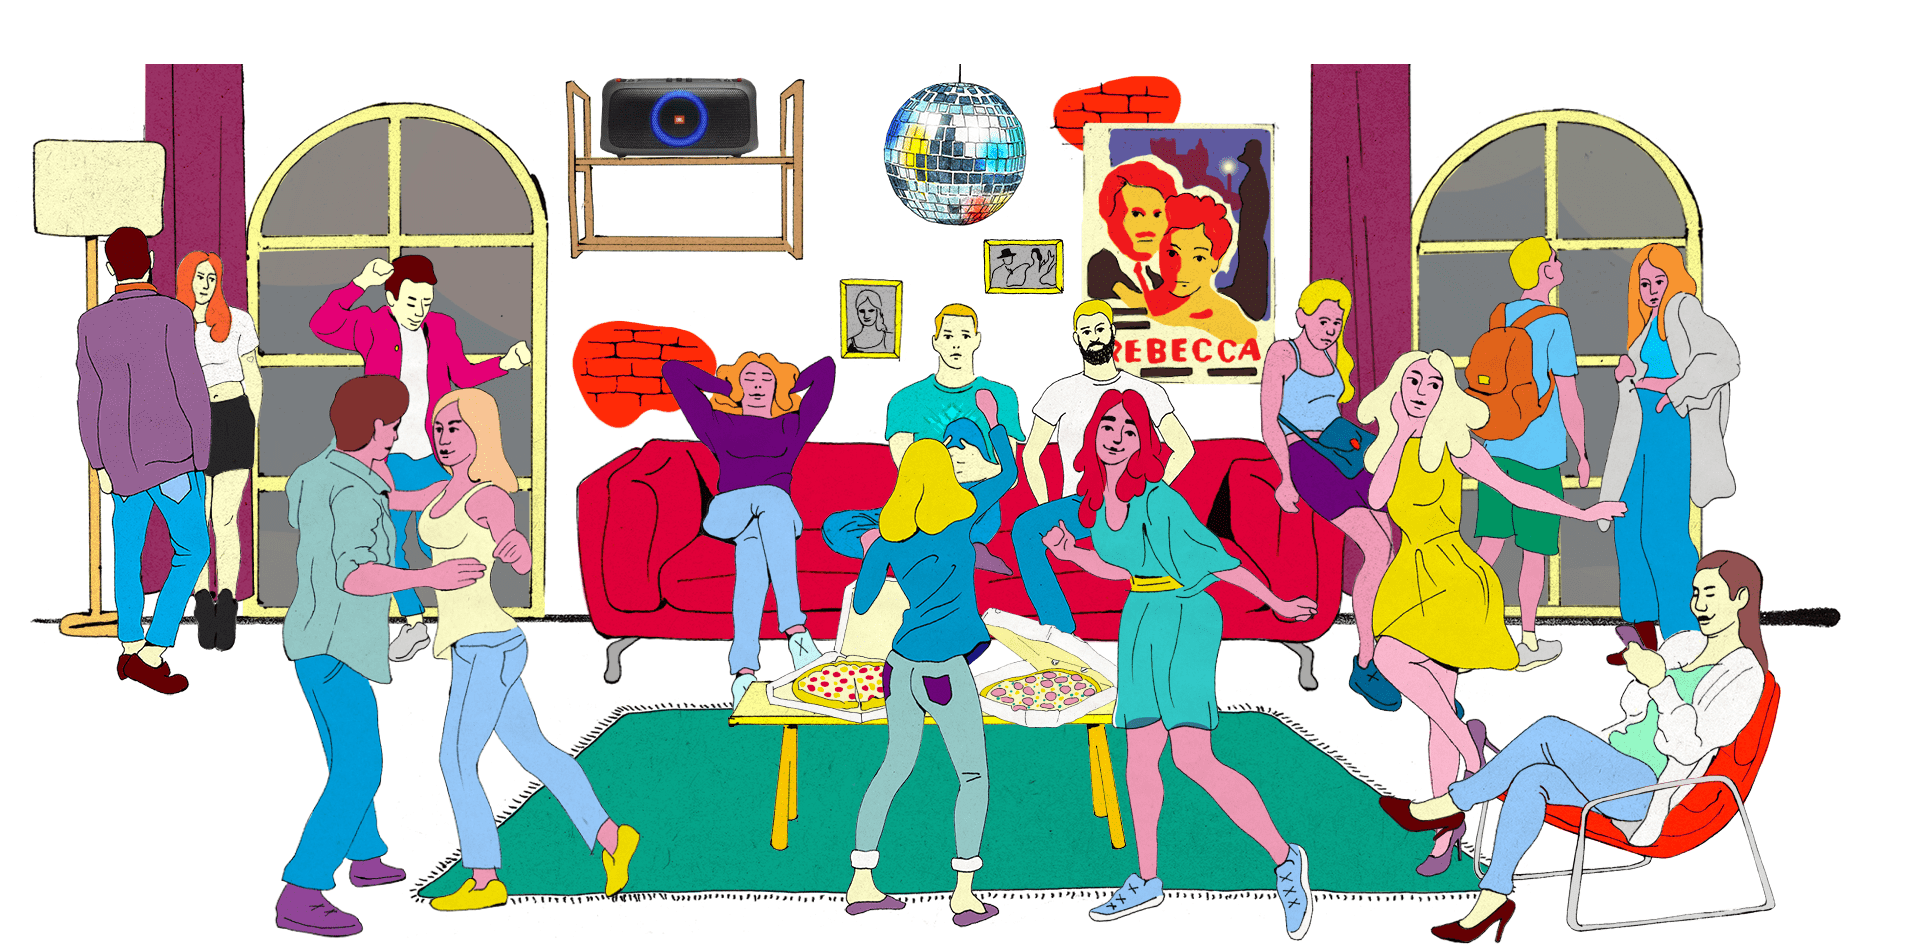
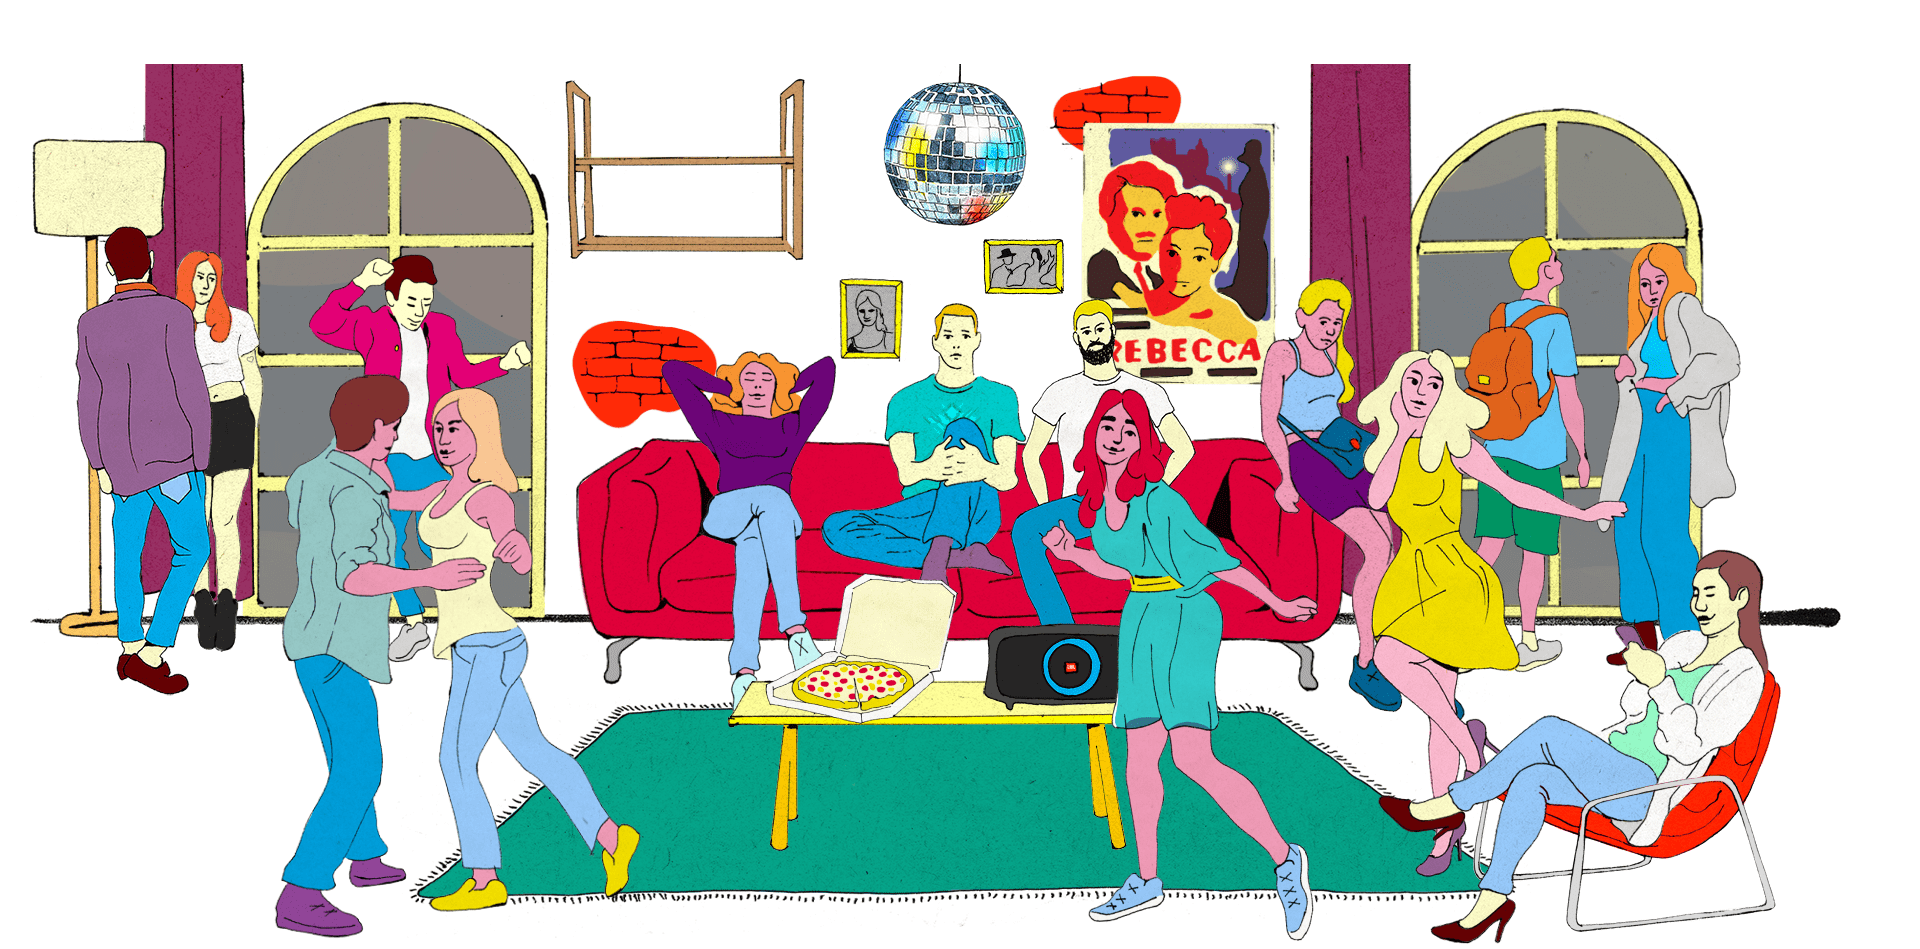
Changed level 3 & level 4

Changed region(s): [[0.4375, 0.3973, 0.5938, 0.9779], [0.3125, 0.0611, 0.4062, 0.1834], [0.5, 0.1528, 0.5312, 0.1834]]

diff --git a/src/components/Game/levelsData.js b/src/components/Game/levelsData.js
@@ -43,16 +43,16 @@ const levels = [
         animatePlus: [
             { id: 28, style: { left: '30.5em', top: '18.4em', width: '22.9em', height: '42.1em' } },//Парень в розовой рубашке
             { id: 29, style: { left: '143.2em', top: '16.8em', width: '14.6em', height: '43.8em' } },//Парень с рюкзаком
+            { id: 31, style: { left: '97.9em', top: '55.4em', width: '16.8em', height: 'auto' } }, //Колонка
             { id: 37, style: { left: '26.7em', top: '30.3em', width: '37.6em', height: '57.4em' } },//Тансующая пара
             { id: 34, style: { left: '103em', top: '32em', width: '27.9em', height: '55.5em' } }, //Девушка в зеленом платье
             { id: 38, style: { left: '134.2em', top: '27.8em', width: '32.3em', height: '53em' } }, //Девушка в жёлтом платье
             { id: 39, style: { left: '136em', top: '47.4em', width: '41em', height: '40.4em' } }, //Девушка в кресле не gif
-            { id: 31, style: { left: '59.2em', top: '11.8em', width: '11.8em', height: '6em' } }, //Колонка
         ],
         animateMinus: [
             { id: 28, style: { left: '39.4em', top: '18.3em', width: '22.9em', height: '42.1em' } },//Парень в розовой рубашке
             { id: 29, style: { left: '143.2em', top: '16.8em', width: '14.6em', height: '43.8em' } },//Парень с рюкзаком
-            { id: 31, style: { left: '59.2em', top: '11.8em', width: '11.8em', height: '6em' } }, //Колонка
+            { id: 31, style: { left: '74.2em', top: '32em', width: '11.8em', height: '6em' } }, //Колонка
             { id: 32, style: { left: '23.7em', top: '32.7em', width: '26.4em', height: '52.1em' } }, //Девушка спиной
             { id: 34, style: { left: '103em', top: '32em', width: '27.9em', height: '55.5em' } }, //Девушка в зеленом
             { id: 33, style: { left: '136.6em', top: '30.4em', width: '26.1em', height: '56.4em' } }, //Парень с микрофоном
@@ -69,12 +69,12 @@ const levels = [
             { id: 32, style: { left: '23.7em', top: '32.7em', width: '26.4em', height: '52.1em' } }, //Девушка спиной
             { id: 37, style: { left: '45.1em', top: '30em', width: '37.6em', height: '57.4em' } },//Танцующая пара
             { id: 34, style: { left: '100em', top: '31.9em', width: '27.9em', height: '55.5em' } }, //Девушка в зеленом платье
-            { id: 31, style: { left: '59.2em', top: '11.8em', width: '11.8em', height: '6em' } }, //Колонка
+            { id: 31, style: { left: '63.4em', top: '11.6em', width: '11.8em', height: '6em' } }, //Колонка
         ],
         animateMinus: [
             { id: 28, style: { left: '39.4em', top: '18.3em', width: '22.9em', height: '42.1em' } },//Парень в розовой рубашке
             { id: 29, style: { left: '143.2em', top: '16.8em', width: '14.6em', height: '43.8em' } },//Парень с рюкзаком
-            { id: 31, style: { left: '59.2em', top: '11.8em', width: '11.8em', height: '6em' } }, //Колонка
+            { id: 31, style: { left: '98.2em', top: '55.5em', width: '14.8em', height: '7.6em' } }, //Колонка
             { id: 32, style: { left: '23.7em', top: '32.7em', width: '26.4em', height: '52.1em' } }, //Девушка спиной
             { id: 41, style: { left: '122.8em', top: '20.3em', width: '20.4em', height: '62.5em' } }, //Парень с поднятой рукой
             { id: 35, style: { left: '50.5em', top: '27.6em', width: '31em', height: '60em' } }, //Девушка с микрофоном в розовой

diff --git a/src/context.js b/src/context.js
@@ -26,12 +26,12 @@ export default function ContextProvider({ children }) {
     const [em, setEm] = useState(getEm());
     const [globalHeight, setGlobalHeight] = useState(getHeight());
     const [screen, setScreen] = useState('game');//start / game / final
-    const [level, setLevel] = useState(1); //0 //0-9
+    const [level, setLevel] = useState(0); //0 //0-9
     const [yesno, setYesNo] = useState(null);
     const [isMobale, setIsMobale] = useState(getIsMobile());
     const [imgsLoaded, setImgsLoaded] = useState(false);
     const [countLoaded, setCountLoaded] = useState(0);
-    const [overley, setOverley] = useState(true); //false
+    const [overley, setOverley] = useState(false); //false
     const [result, setResult] = useState([false, false, false, false, false, false, false, false, false, false]); //0
 
     useEffect(() => {
